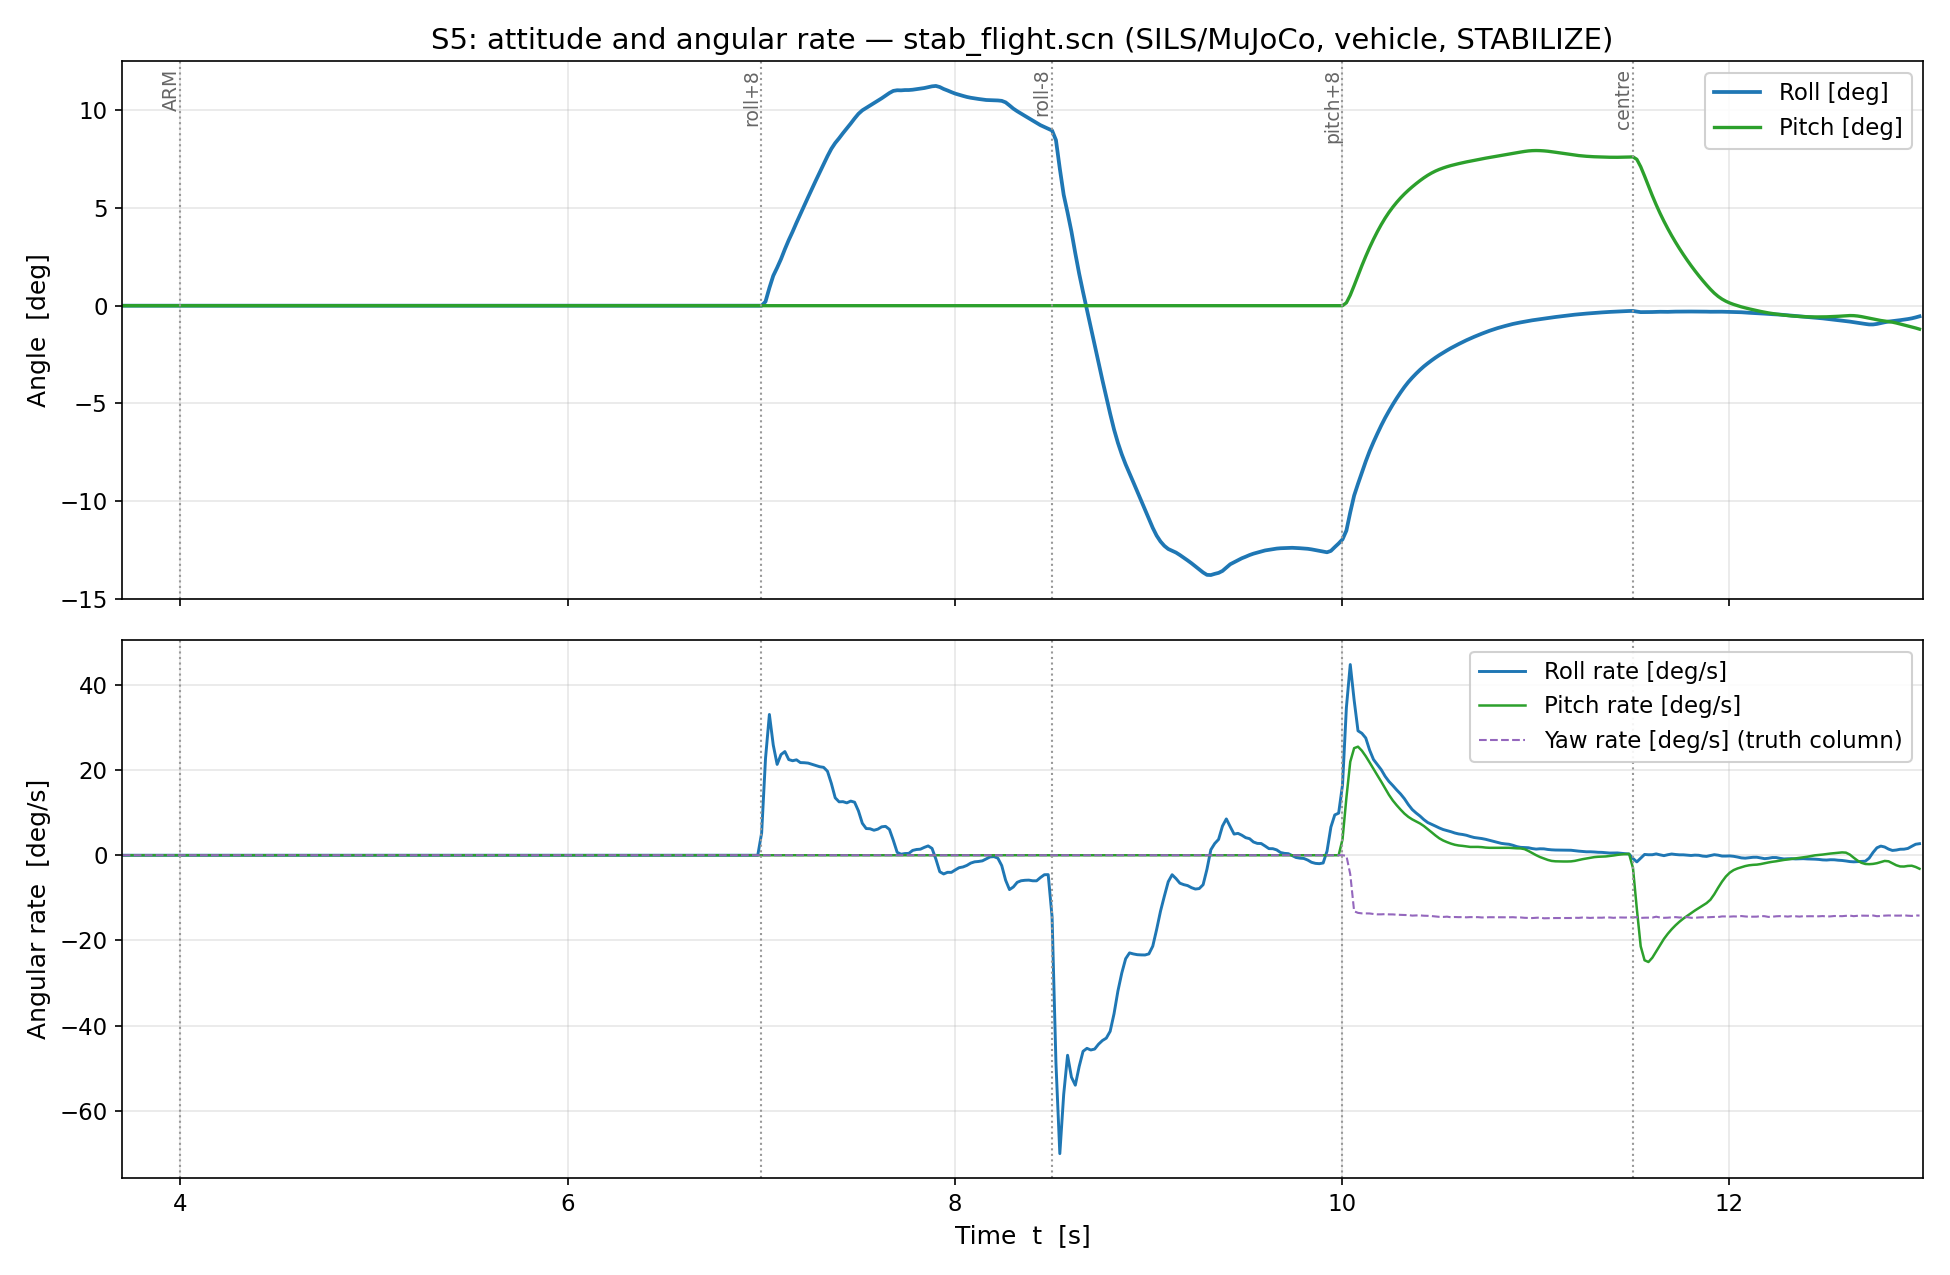
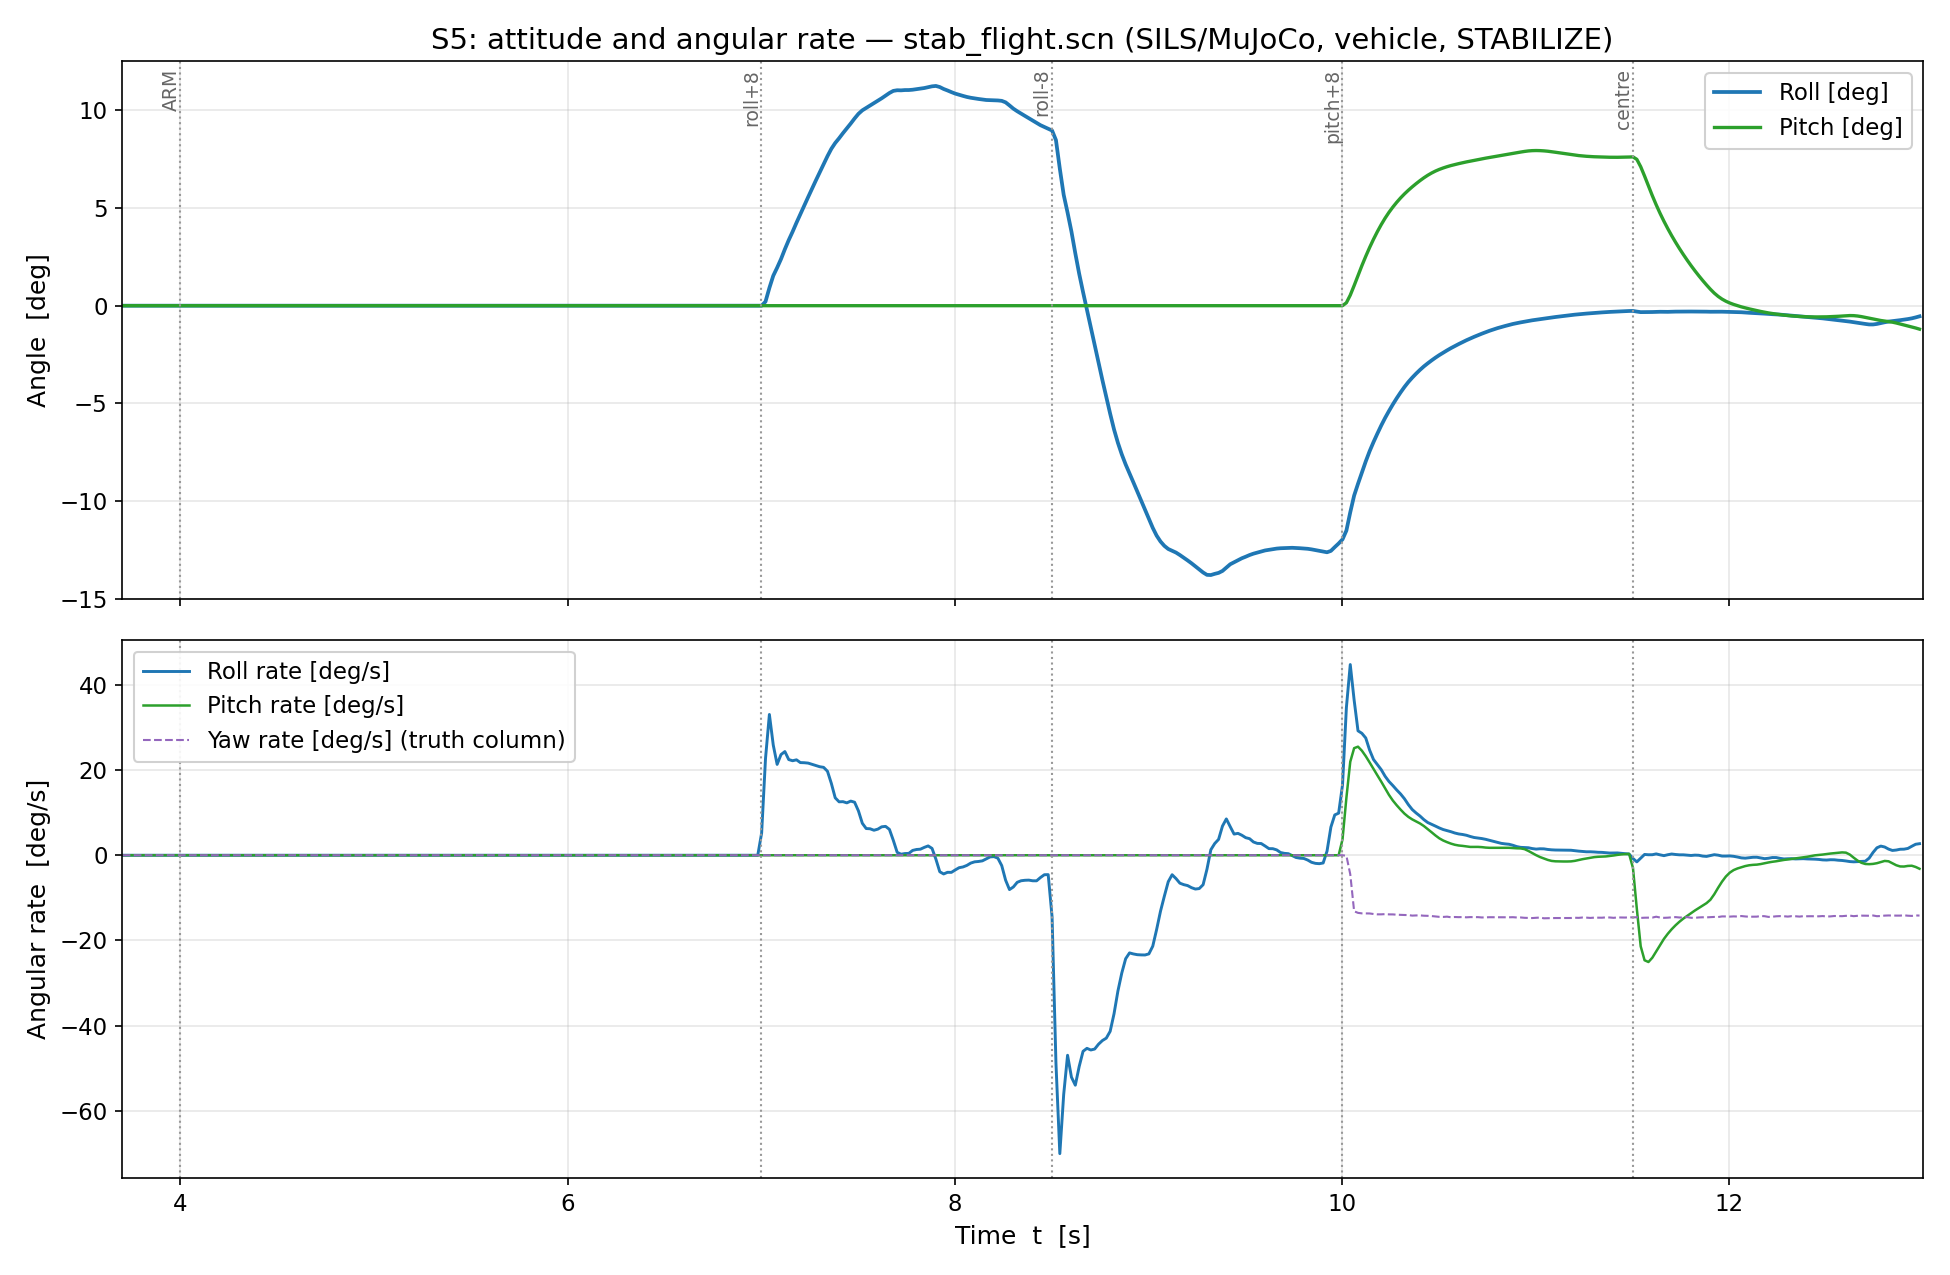
fix(sci-tutorial): pin S5 rate-plot legend away from data peaks
Changes:
- make_fallback.py: anchor S5_attitude_rate.png's angular-rate legend
  at a fixed "upper left" position instead of matplotlib's "best",
  which placed it close enough to a ~44 deg/s roll-rate step
  transient to nearly touch it. The pre-climb window is provably
  all-zero rate on both axes, so anchoring there is always clear.
  Found by a visual-QA subagent pass over the generated charts;
  regenerated S5_attitude_rate.png with the fix.

Next steps:
- None — this closes out the visual QA follow-up from the fallback
  material commit

Claude-Session: https://claude.ai/code/session_01EdQkNMzrYAGG6der1H82Jb

Changed region(s): [[0.0615, 0.52, 0.2769, 0.6118], [0.7692, 0.52, 0.9846, 0.6118]]

diff --git a/docs/sci_tutorial/fallback/make_fallback.py b/docs/sci_tutorial/fallback/make_fallback.py
@@ -484,7 +484,16 @@ def build_s5_graph(bundle: Path) -> None:
     ax_rate.set_ylabel("Angular rate  [deg/s]")
     ax_rate.set_xlim(*window)
     ax_rate.grid(True, alpha=0.3)
-    ax_rate.legend(loc="best", framealpha=0.9)
+    # Fixed "upper left" placement (not "best"): the roll/pitch-rate transients
+    # at the roll+8/roll-8/pitch+8 step edges reach +-45..70 deg/s and "best"
+    # can still auto-place the legend box close enough to graze a peak. The
+    # pre-climb region (t in [ARM-0.3, climb start]) is provably all-zero rate
+    # (boot/idle, no attitude command yet), so anchoring there is always clear.
+    # "best" ではなく固定配置「upper left」: ロール/ピッチのステップ切替点での
+    # 角速度過渡は+-45〜70deg/sに達し、"best" でも凡例枠がピークに接近しうる。
+    # 離陸前区間（t∈[ARM-0.3, 上昇開始]）は起動・アイドルでレートが確実にゼロ
+    # なので、そこに固定すれば常に衝突しない。
+    ax_rate.legend(loc="upper left", framealpha=0.9)
 
     _step_lines = ((S5_T_ARM, "ARM"), (S5_T_STEP_D, "roll+8"),
                    (S5_T_STEP_E, "roll-8"), (S5_T_STEP_F, "pitch+8"),
